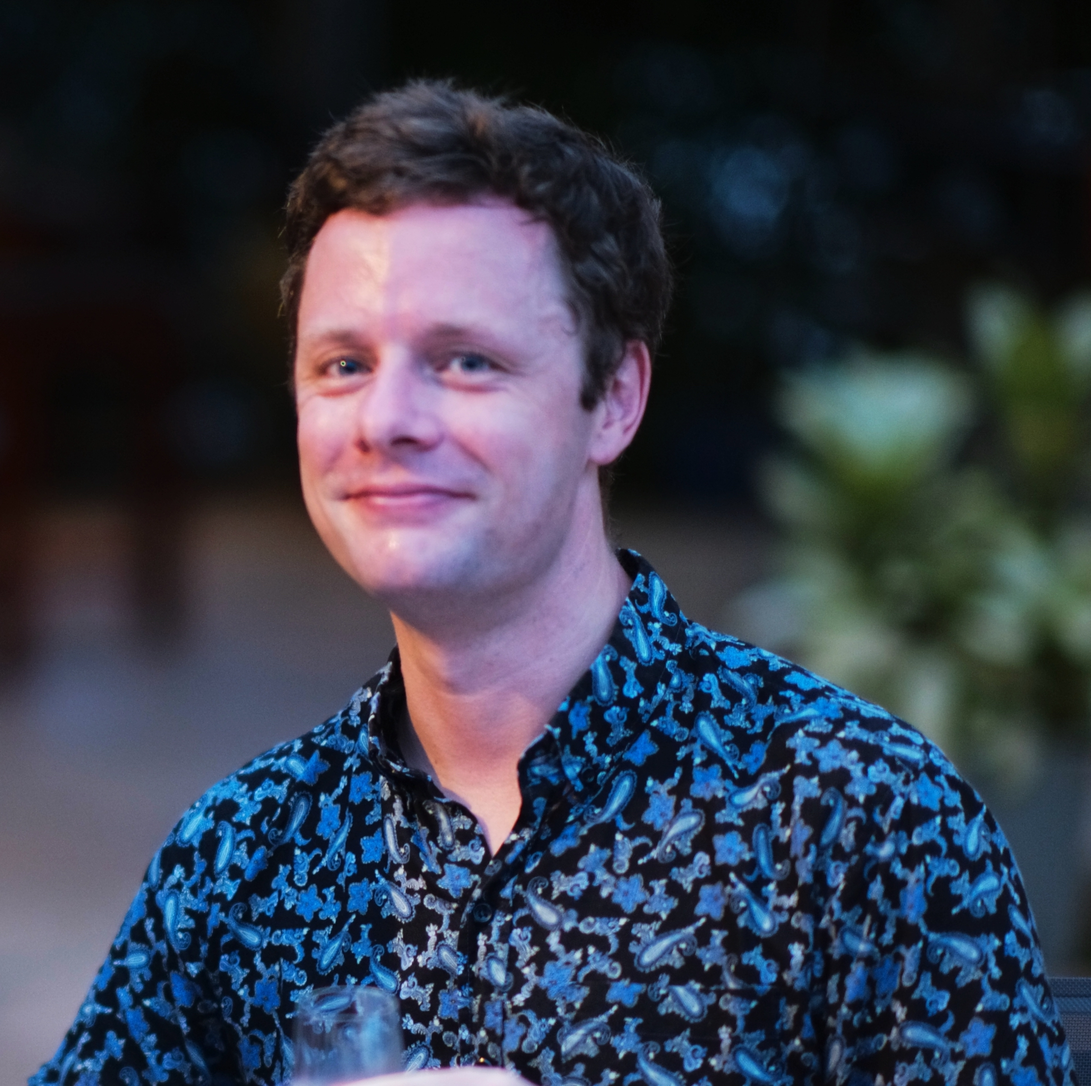
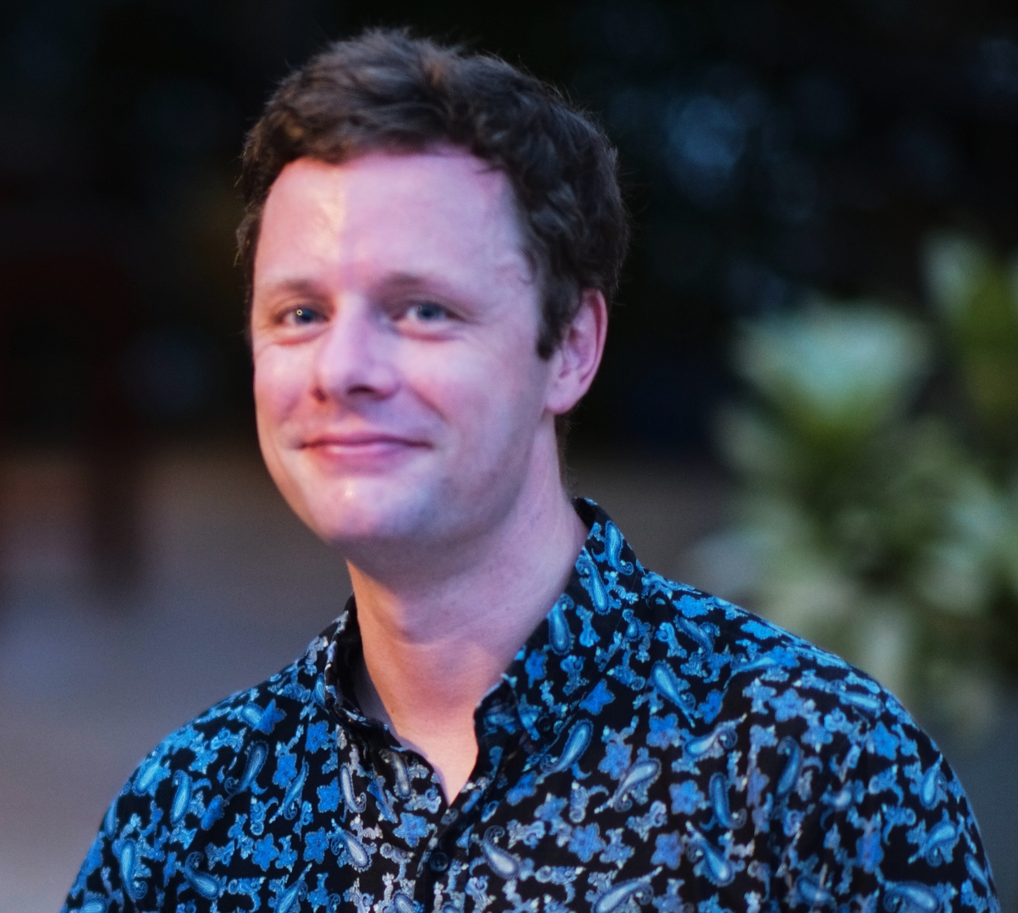
Add photo to home section
- Add styling for photo and container in styles.css.
- Implement the <img> in the index.html file.
- Adjust the size of the photos.

diff --git a/index.html b/index.html
@@ -17,9 +17,10 @@
     <!-- <embed id="dynamic-background" src="https://www.shadertoy.com/embed/lslGWr?gui=false&t=40&paused=false&muted=true"></embed> -->
     <img id="static-background" src="media/bangkok-thunderstorm.jpg">
     <section id="home">
-      <header>
+      <header class="column-flex">
         <h1 class="name">Lucas O'Connell</h1>
         <h1>Full Stack Software Engineer</h1>
+        <img src="media/profile1.jpg"/>
         <a href="#education" class="more">Show me more</a>
       </header>
     </section>

diff --git a/styles.css b/styles.css
@@ -25,6 +25,14 @@ header h1 {
   font-size: 50px;
 }
 
+header img {
+  display: block;
+  margin: auto;
+  padding: 50px 0px;
+  width: 300px;
+  border-radius: 150px;
+}
+
 h1 {
   margin: 0;
 }
@@ -57,6 +65,14 @@ nav a.active {
 
 nav .navmenu {
   display: none;
+}
+
+.column-flex {
+  display: flex;
+  flex-wrap: wrap;
+  justify-content: center;
+  flex-direction: column;
+  margin-top: 50px;
 }
 
 .name {
